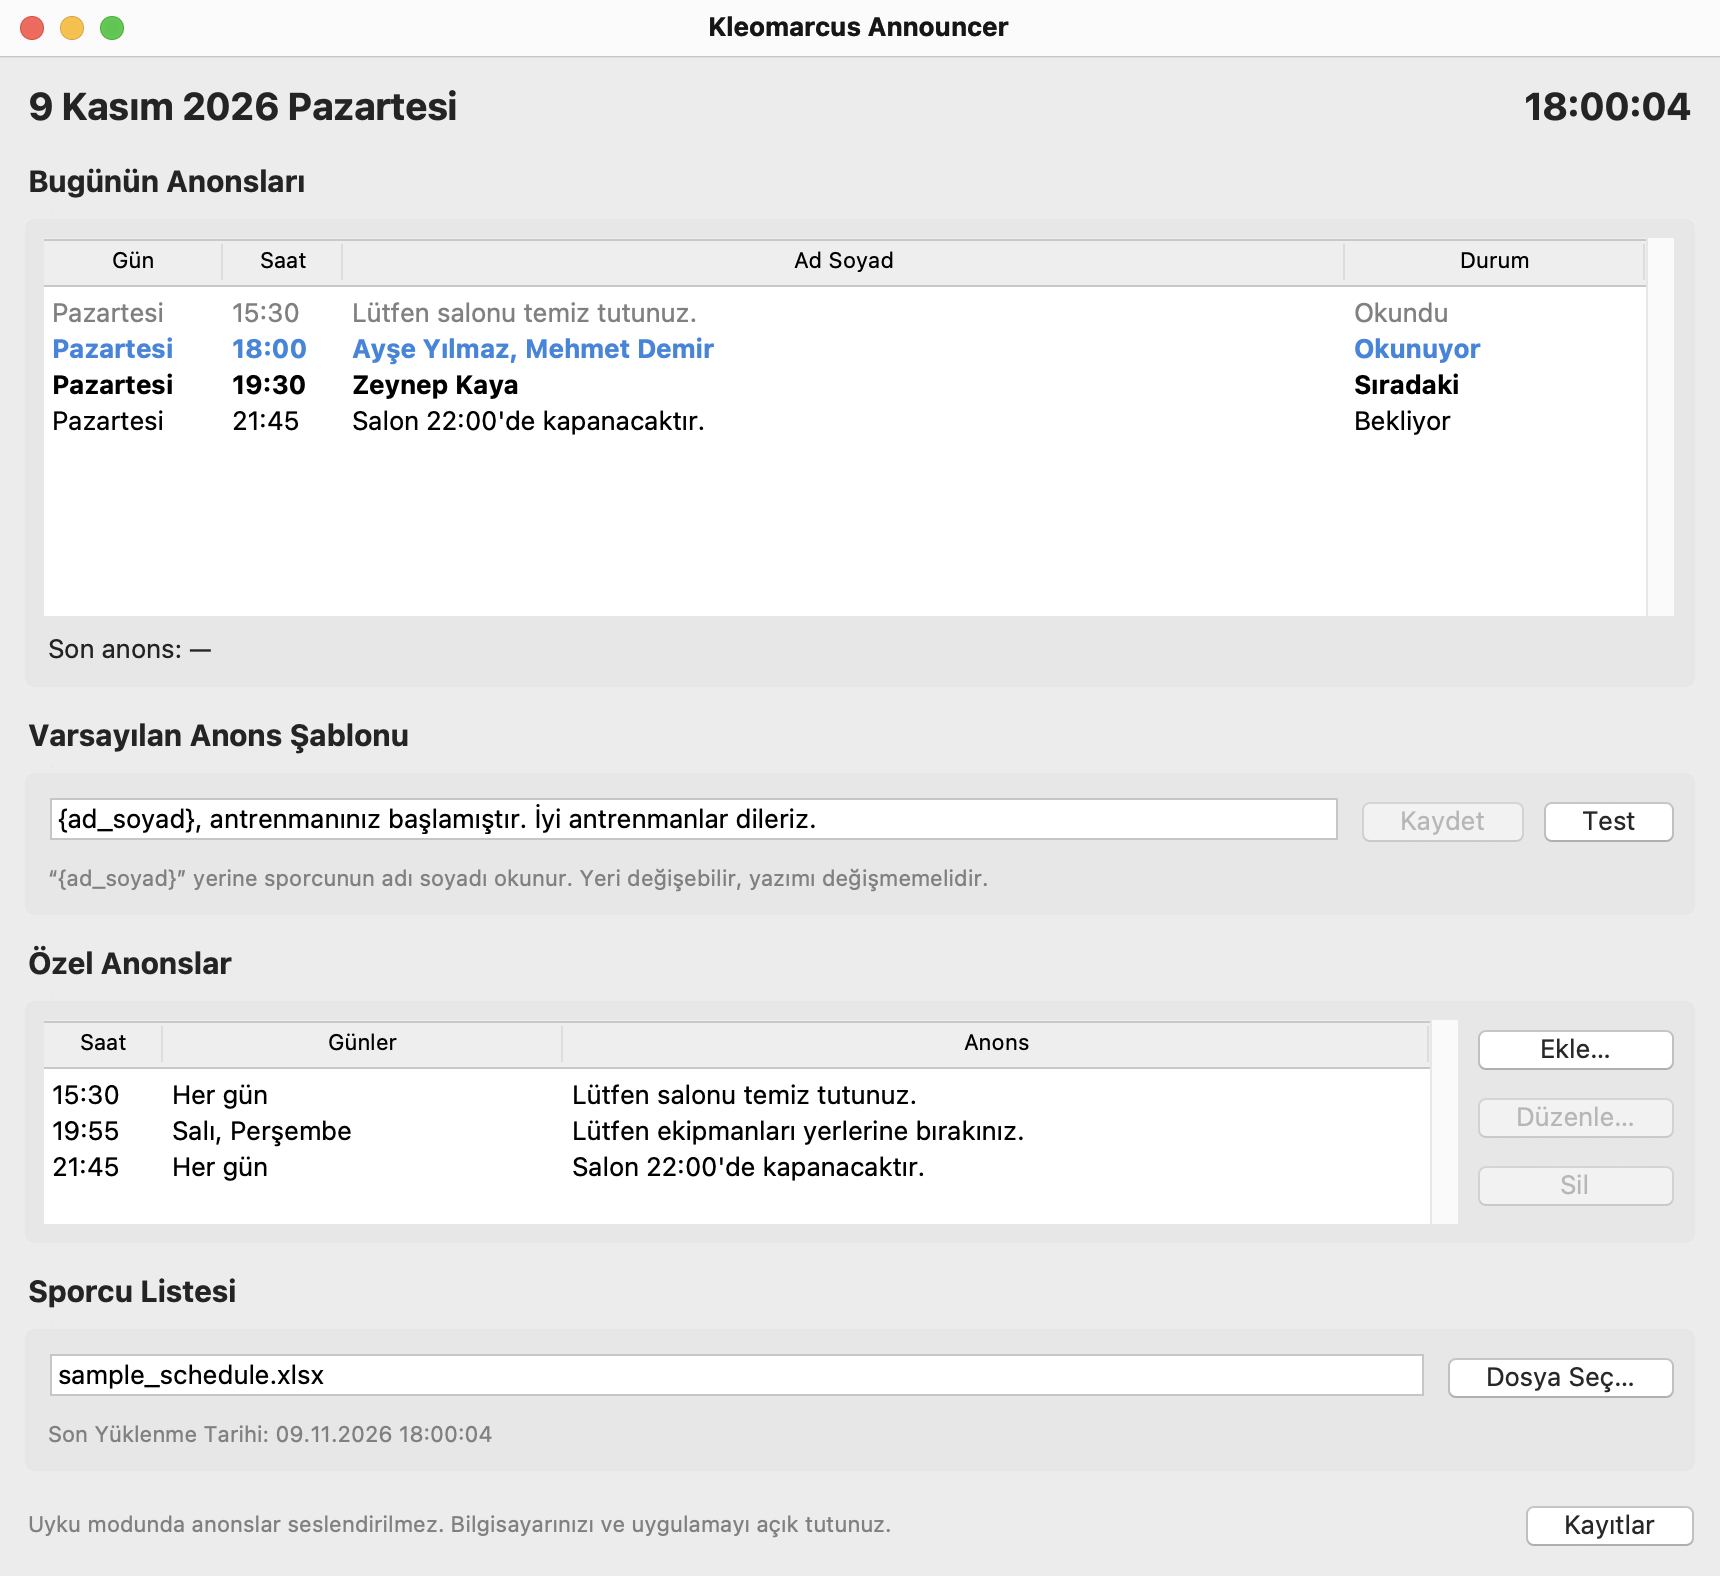
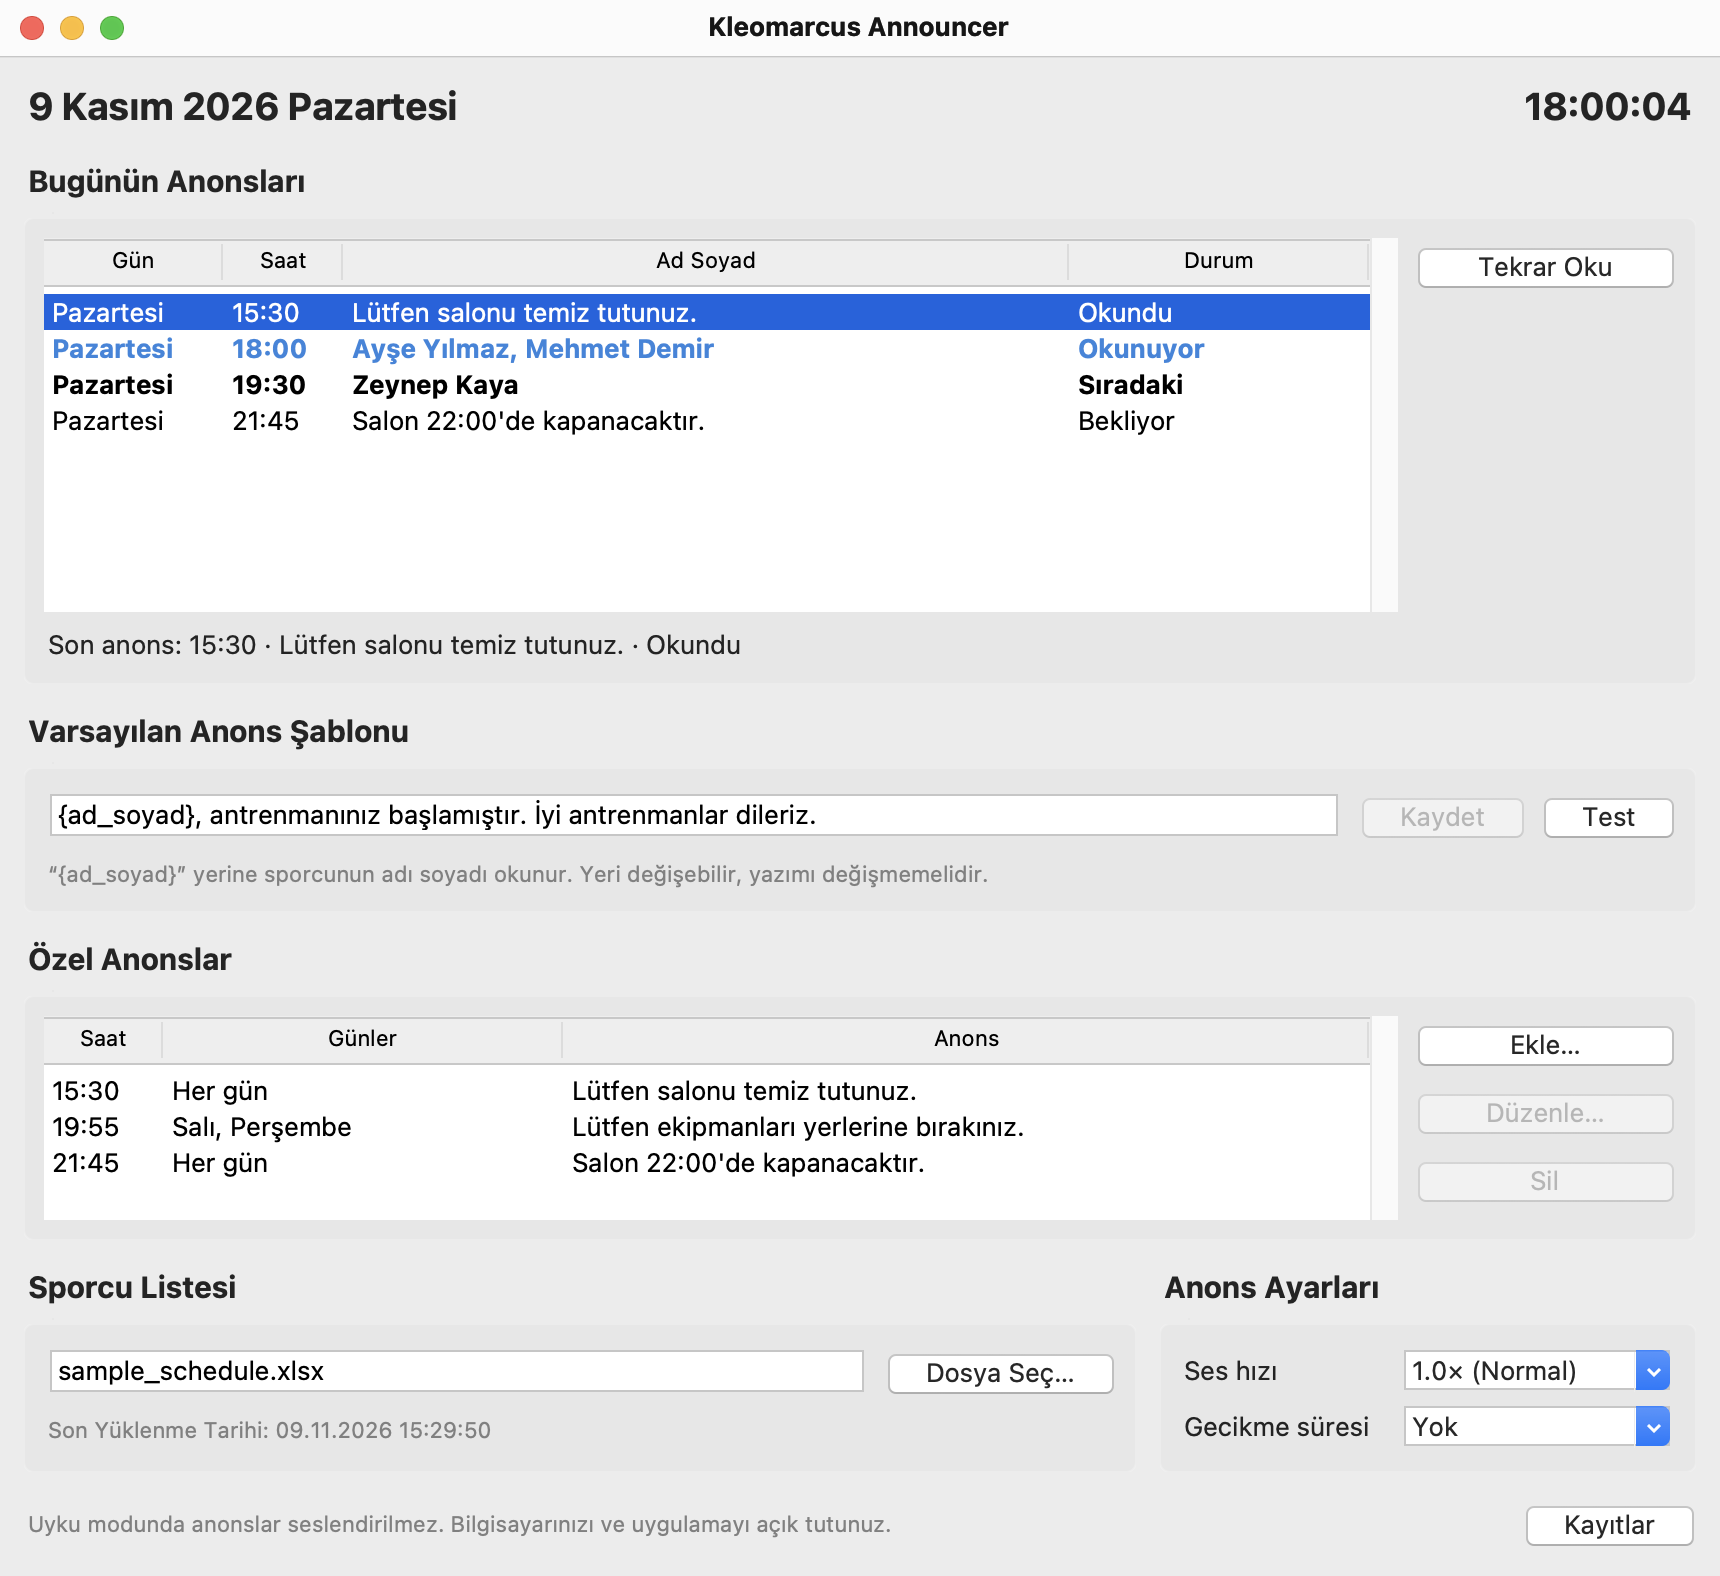
docs: describe reading again, the speed and the delay

diff --git a/README.md b/README.md
@@ -34,6 +34,11 @@ and calls each athlete by name through the computer's speakers.
   weekdays, such as a closing reminder.
 - **Today's announcements.** A table of the day's announcements with the
   status of each: waiting, next, playing, played or skipped, and why.
+- **Read again.** An announcement whose time has come can be read once more
+  with one button.
+- **Speed and delay.** The speech can be made slower or faster, and every
+  announcement can be made a few minutes after its time, for athletes who
+  arrive late.
 - **No late announcements.** An announcement missed during a restart or a
   sleep is not played afterwards; it is shown as skipped.
 - **Turkish interface.** One window with a test button, warnings for problems
@@ -106,6 +111,18 @@ fictional names.
   `{ad_soyad}, antrenmanınız başlamıştır. İyi antrenmanlar dileriz.`, where
   `{ad_soyad}` stands for the name and may be moved anywhere in the sentence.
   A new template is used once all of its speech exists.
+- **Speed.** **Ses hızı** sets how fast everything is spoken, from 0.8 to 1.2
+  times the speed of the voice. The speech is generated again for a new
+  speed, which needs a connection, and the new speed is used once all of its
+  speech exists. **Test** speaks at the chosen speed at once.
+- **Delay.** **Gecikme süresi** moves every announcement, of athletes and
+  custom ones alike, by 1 to 10 minutes: with a delay of one minute, a
+  session listed for 19:00 is announced at 19:01. Today's table shows the
+  time at which an announcement is made.
+- **Read again.** **Tekrar Oku** reads the selected row of today's table once
+  more, with the chime and everyone in that row. It is there for a row whose
+  time has come, whether it was announced or skipped, and the row then tells
+  how that went.
 - **Timing.** A session is announced within the first 30 seconds of its
   minute, by an app that was already running when the minute began. The app
   does not keep the computer awake: an announcement that falls into a sleep
@@ -126,8 +143,8 @@ fictional names.
 | Generated speech | `%LOCALAPPDATA%\Kleomarcus Announcer\Cache\audio`        | `~/Library/Caches/Kleomarcus Announcer/audio`                    |
 
 The settings hold the chosen schedule file, the template, the custom
-announcements and the voice (`tr-TR-EmelNeural`; any voice of the service can
-be set in `config.json`). If the file is damaged the app starts with the
+announcements, the speed, the delay and the voice (`tr-TR-EmelNeural`; any
+voice of the service can be set in `config.json`). If the file is damaged the app starts with the
 defaults and keeps a copy as `config.json.backup`. The **Kayıtlar** button
 opens the log. Deleting the speech folder is safe: the speech is generated
 again, which also replaces a sentence that sounds cut off. Removing the app
